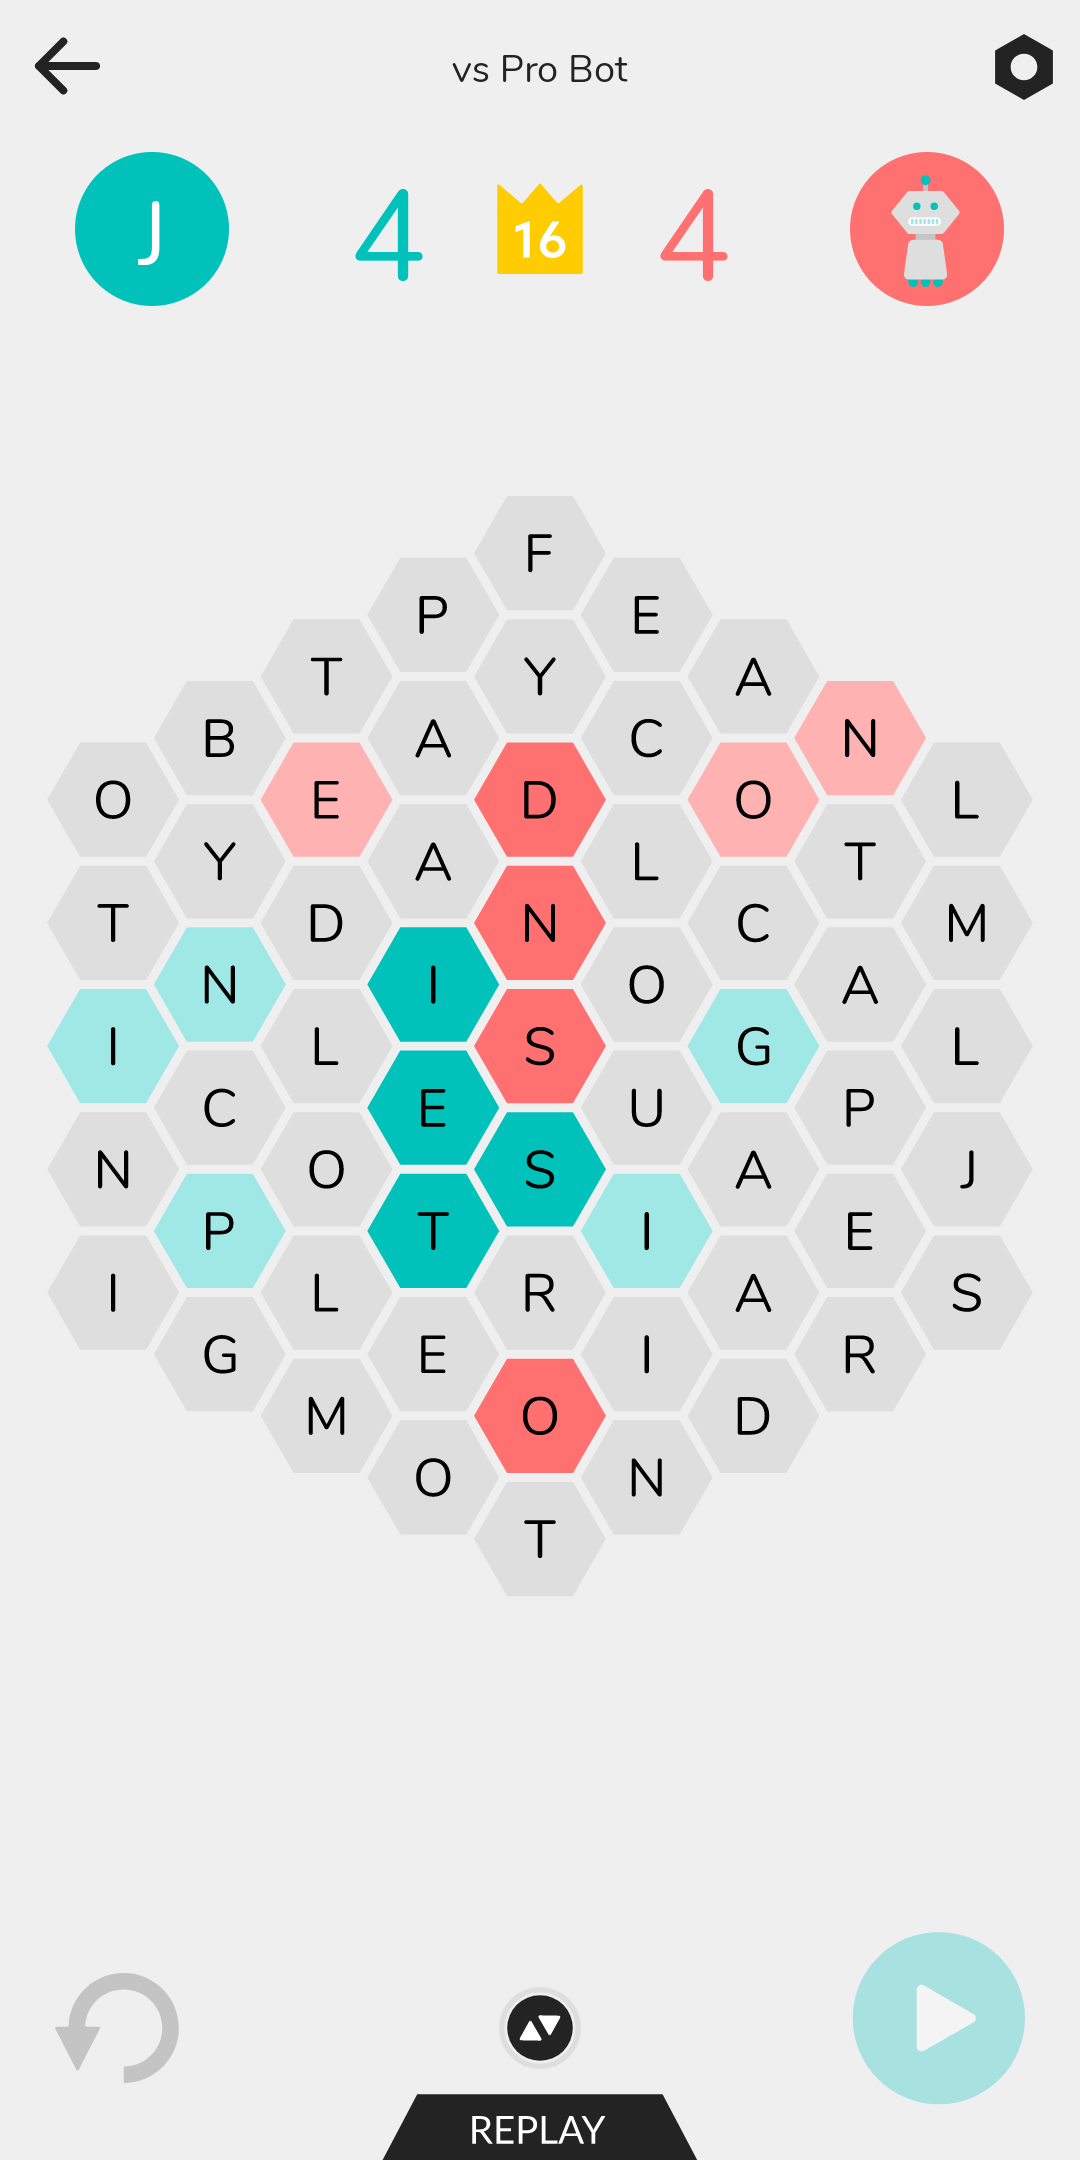
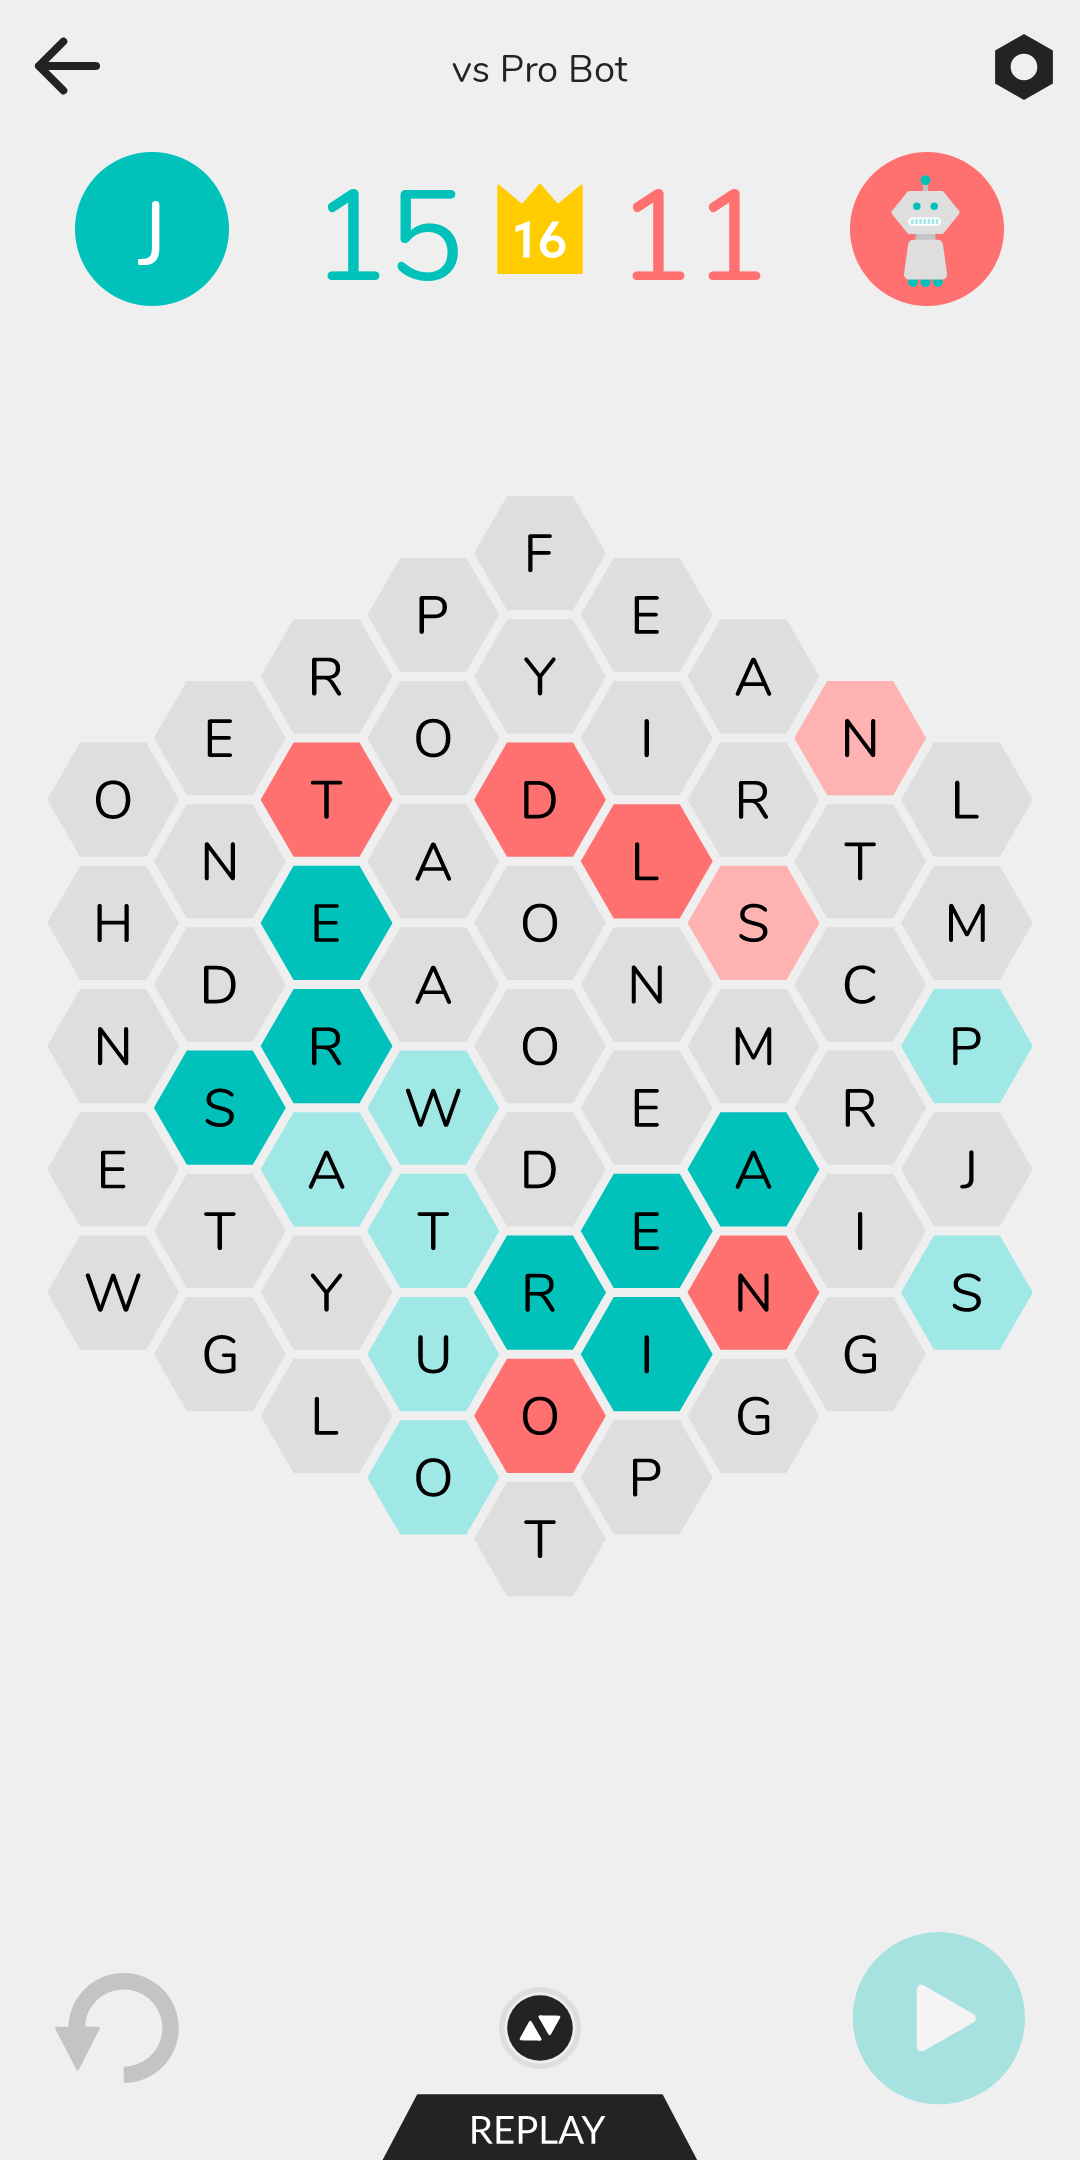
Fix bug with premature clearing of squares.

diff --git a/score.ts b/score.ts
@@ -27,14 +27,6 @@ export function sortByHexagonCount(a: BoardScore, b: BoardScore) {
     return 1;
   }
 
-  // Sort by word length
-  if (a.word.length > b.word.length) {
-    return -1;
-  }
-  if (a.word.length < b.word.length) {
-    return 1;
-  }
-
   if (a.blueSquaresRemaining > b.blueSquaresRemaining) {
     return -1;
   }
@@ -47,5 +39,14 @@ export function sortByHexagonCount(a: BoardScore, b: BoardScore) {
   if (a.redSquaresRemaining < b.redSquaresRemaining) {
     return -1;
   }
+
+  // Sort by word length
+  if (a.word.length > b.word.length) {
+    return -1;
+  }
+  if (a.word.length < b.word.length) {
+    return 1;
+  }
+
   return 0;
 }

diff --git a/index.ts b/index.ts
@@ -17,16 +17,6 @@ async function main() {
   const parsedBoard = await Board.create(text, colors);
   const results = findAllWords(parsedBoard, dictionary);
 
-  const maxBlueHexagons = results.reduce((acc, result) => {
-    return Math.max(acc, result.blueHexagonCount);
-  }, 0);
-  const maxRedHexagons = results.reduce((acc, result) => {
-    return Math.max(acc, result.redHexagonCount);
-  }, 0);
-
-  console.log(`Max blue hexagons: ${maxBlueHexagons}`);
-  console.log(`Max red hexagons: ${maxRedHexagons}`);
-
   const sorted = sortResults(results);
 
   for (const { word, board, ...rest } of sorted) {

diff --git a/board.ts b/board.ts
@@ -154,12 +154,14 @@ export class Board {
           if (hexagonResult === "blue") {
             blueHexagonCount++;
           }
-
-          const cleared = node.clearForHexagon(hexagonResult);
-          redCleared += cleared.redCleared;
-          blueCleared += cleared.blueCleared;
         }
       }
+    }
+
+    for (const { node, color } of hexagonCenters) {
+      const cleared = node.clearForHexagon(color);
+      redCleared += cleared.redCleared;
+      blueCleared += cleared.blueCleared;
     }
 
     debugScore("cleared", printBoard(this));

diff --git a/format.ts b/format.ts
@@ -27,11 +27,7 @@ export function printBoard(
             letters.push(renderNodeGreen(wordNode));
           }
         } else {
-          const swappedNode = word.find(
-            (node2) =>
-              node2.swappedWith !== null &&
-              node2.swappedWith.coords === node.coords
-          );
+          const swappedNode = word.findSwappedNode(node);
           if (swappedNode) {
             letters.push(renderNode(swappedNode.swappedWith!));
           } else {

diff --git a/solve.ts b/solve.ts
@@ -68,7 +68,7 @@ function getScoredWords(
     node.char,
     accumulation.map((node) => node.char).join("")
   );
-  debug(printBoard(board));
+  debug(printBoard(board, new Word(accumulation)));
 
   const words = [] as BoardScore[];
 
